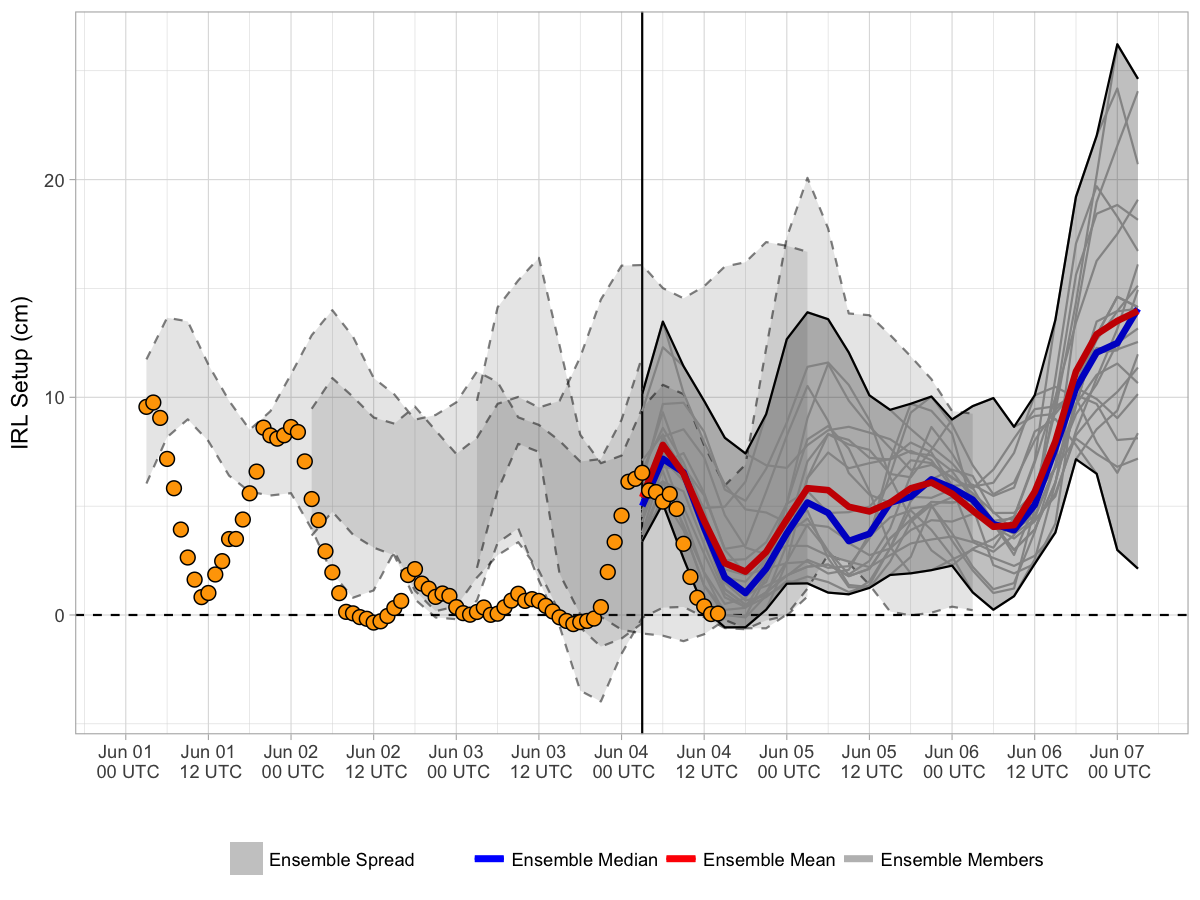
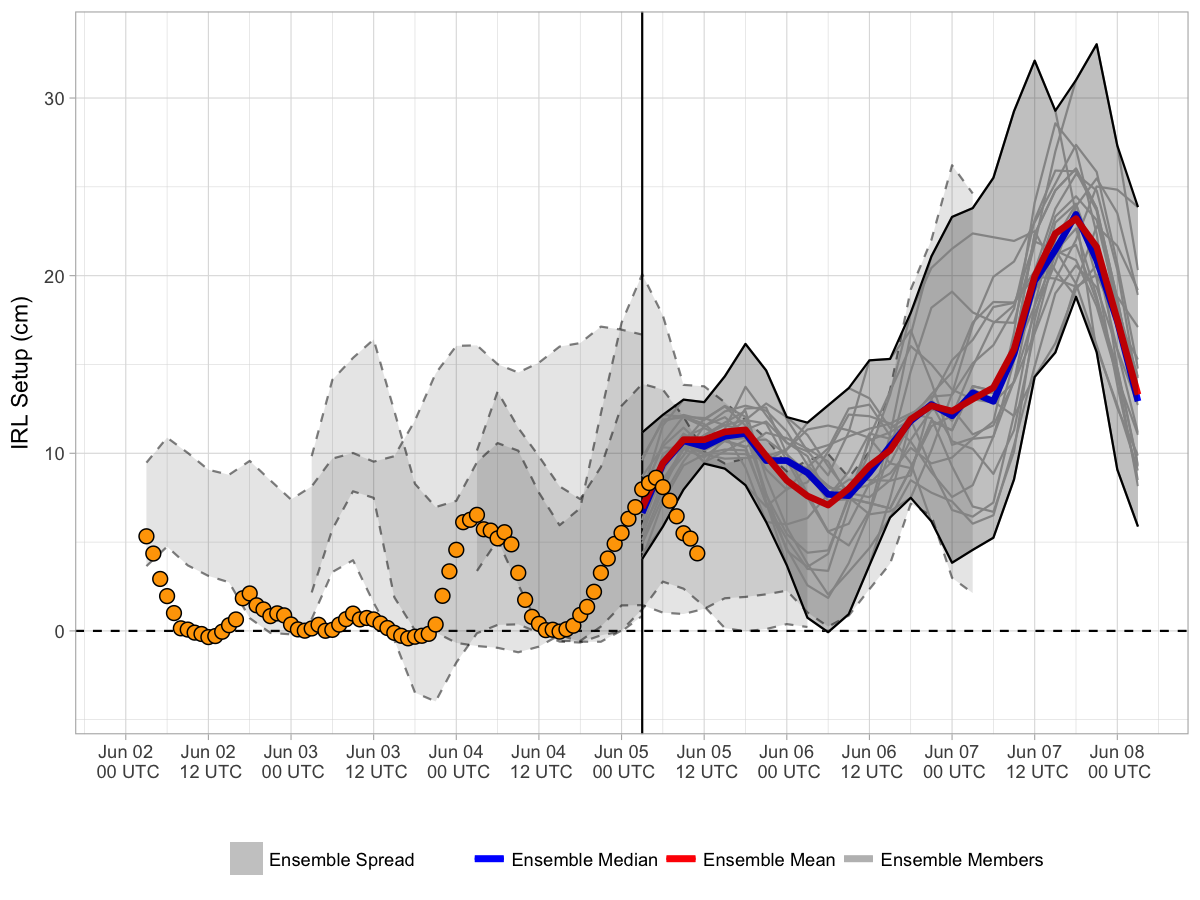
20170605 forecast update

diff --git a/docs/index.md b/docs/index.md
@@ -3,7 +3,7 @@ Current Forecast
 
 [![](img/raw_setup.png)](https://bhlmn.github.io/IRLSetup/img/raw_setup.png)
 
-> Forecast valid 2017-06-04 10:52:49.
+> Forecast valid 2017-06-05 07:28:46.
 
 Explanation
 -----------
@@ -15,7 +15,7 @@ water elevation in the northern IRL (near Titusville), and negative
 setup indicates the increase elevation in the southern IRL (near
 Sebastian). The x-axis displays the date and time in UTC. The solid
 vertical line represents the beginning of the most recent ensemble
-forecast (currently 2017-06-03 18:00:00). For this most recent forecast,
+forecast (currently 2017-06-04 18:00:00). For this most recent forecast,
 the ensemble spread (grey shading) is bound by solid black lines, with
 individual members represented by faint grey lines. The ensemble mean
 and median for this are represented by the red and blue curves,
